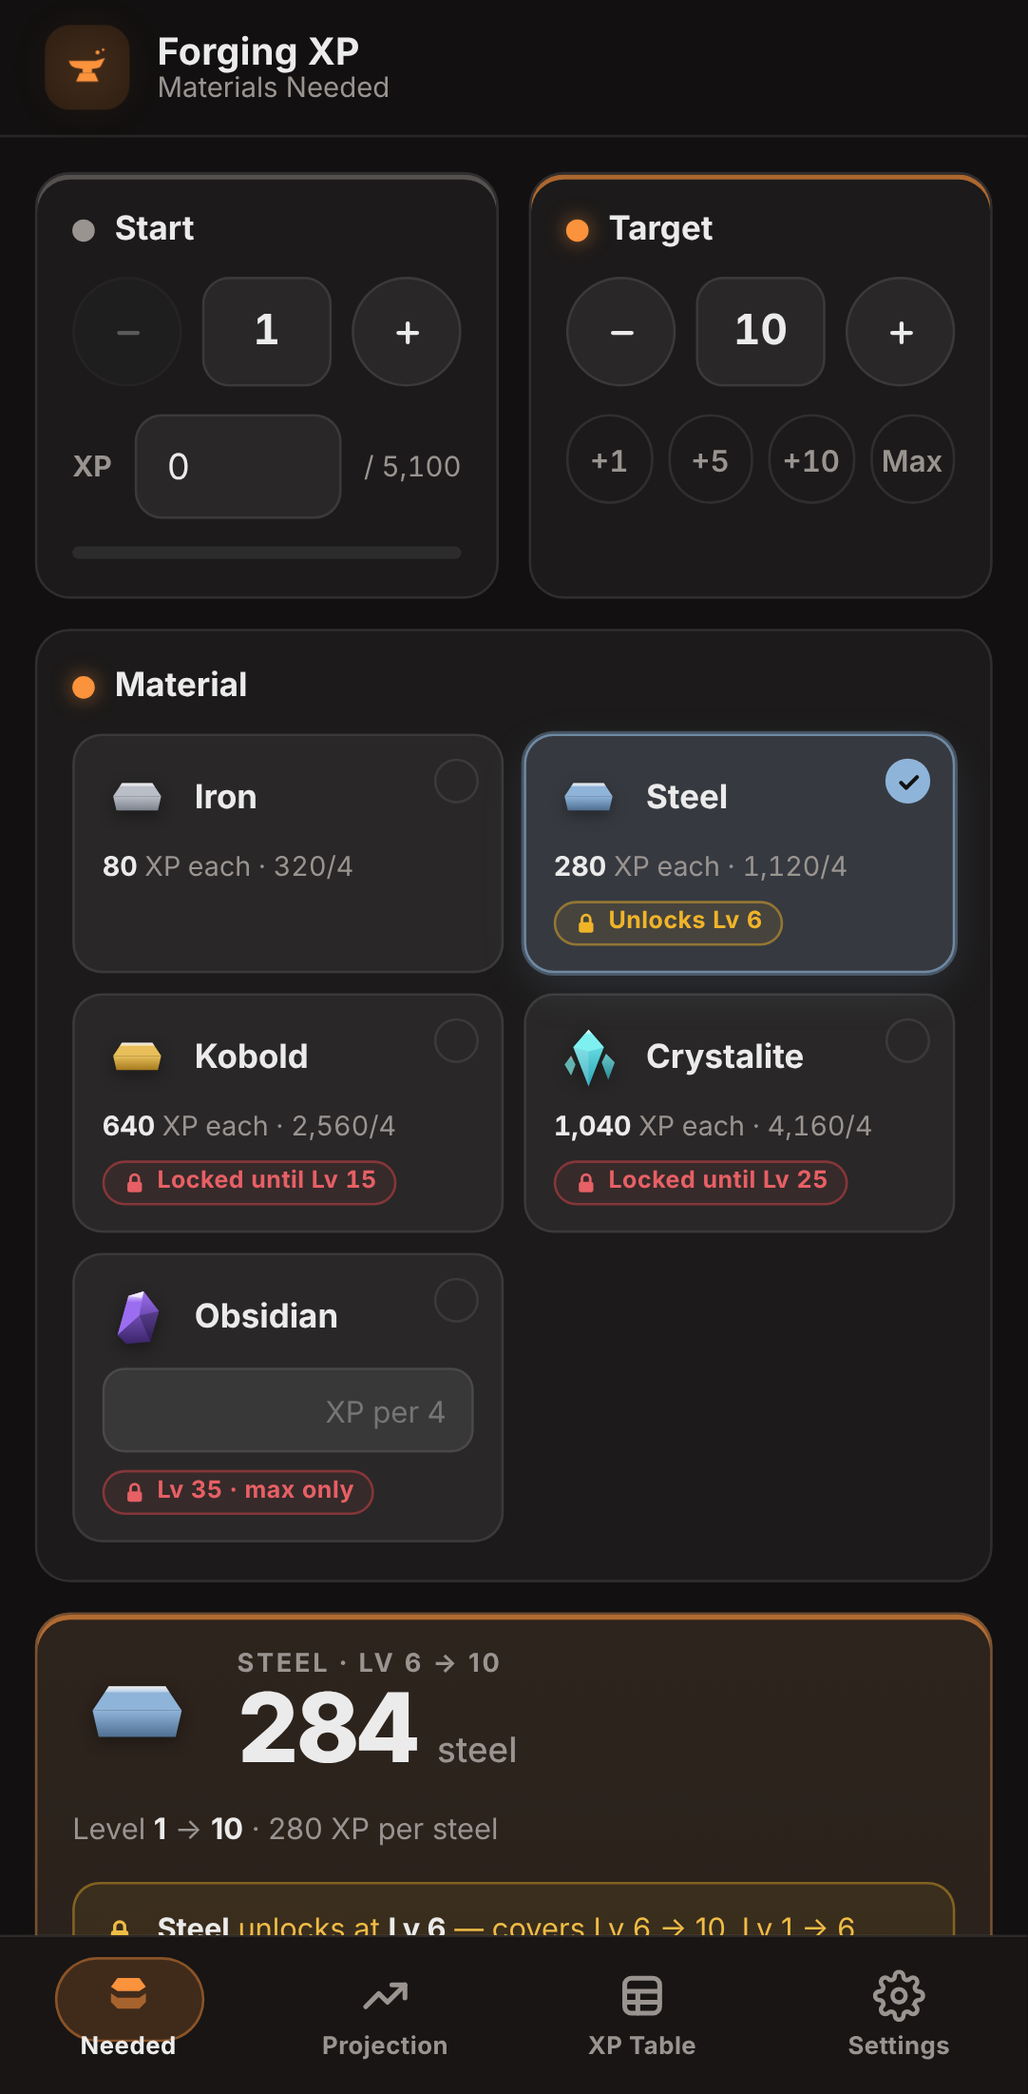
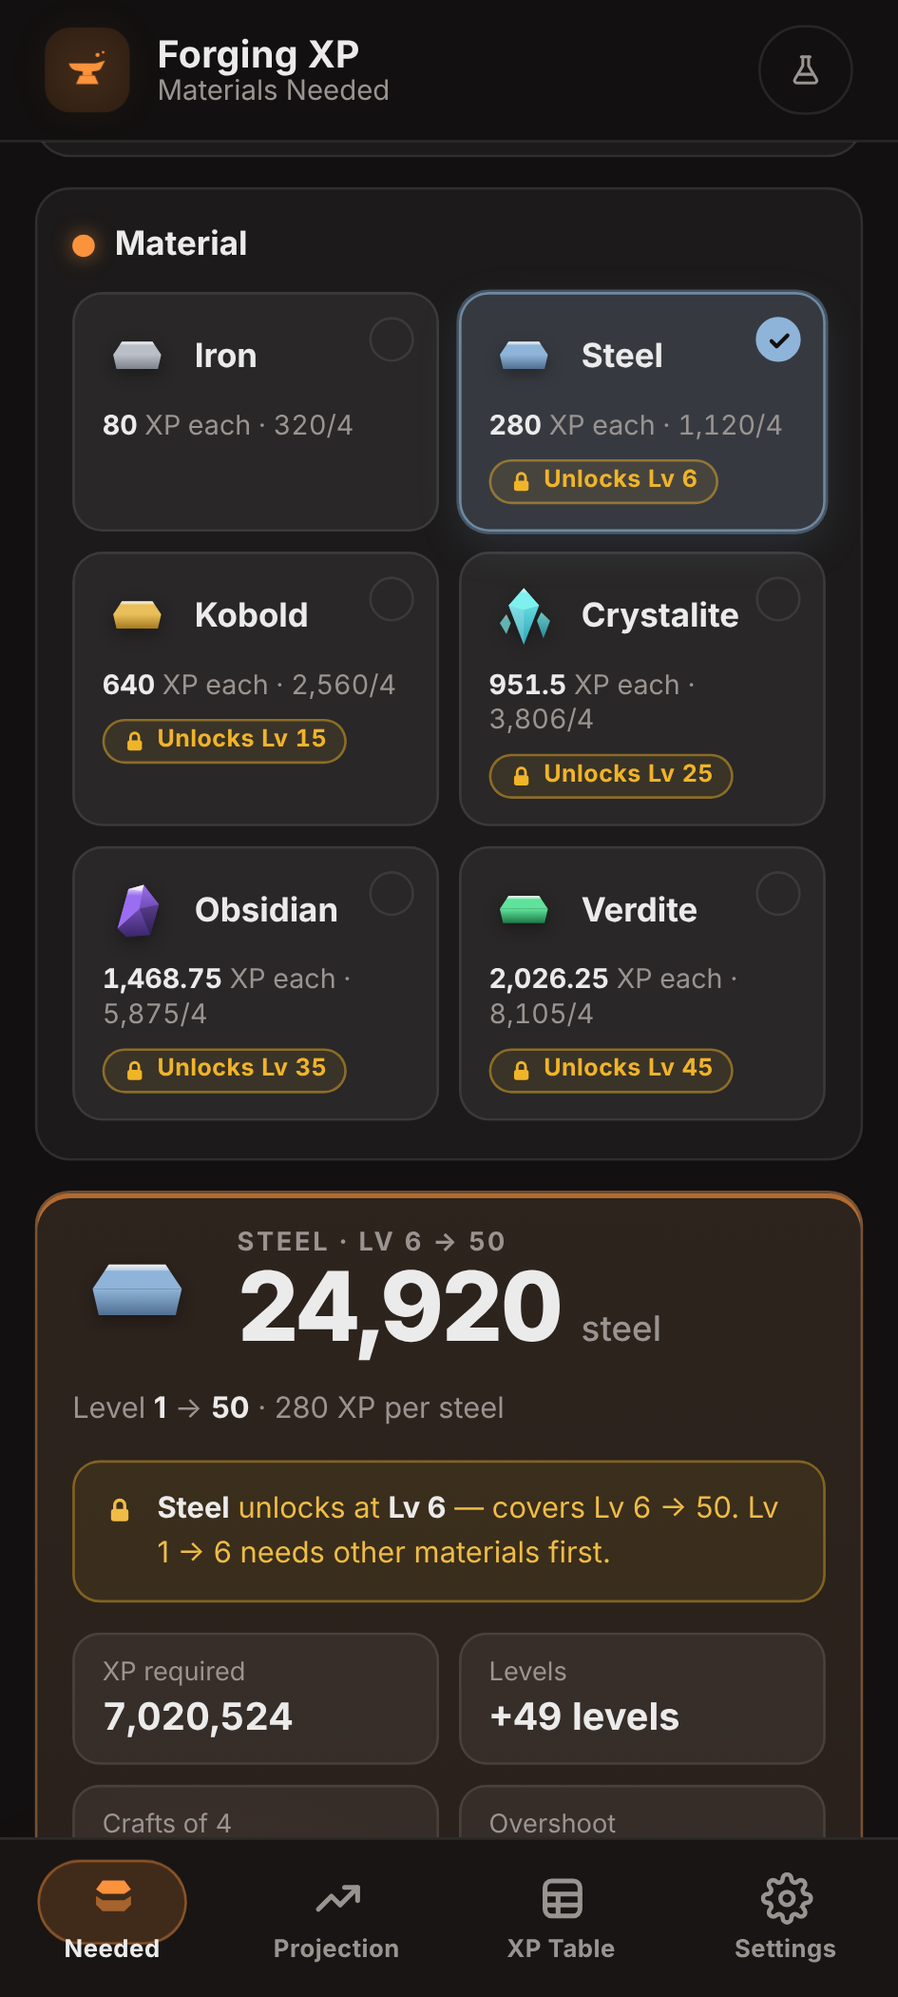
v1.3.0: max level 50, Verdite (Lv 45), Obsidian 5875, Crystalite 3806
Claude-Session: https://claude.ai/code/session_014Nw5Q8vzq2GeLL2u44okpi

diff --git a/desktop/ui/app.js b/desktop/ui/app.js
@@ -9,6 +9,7 @@ const send = (cmd, extra = {}) => { if (HOST) try { window.ipc.postMessage(JSON.
 const $ = s => document.querySelector(s);
 const $$ = s => [...document.querySelectorAll(s)];
 const fmt = n => Math.round(n).toLocaleString("en-US");
+const fmtEach = v => v.toLocaleString("en-US", { maximumFractionDigits: 2 });   // per-item XP (may be fractional)
 
 // ============================================================
 // XP curve: floor((1500 + 400n + 40n²) × 3.4), n = L − 1
@@ -16,8 +17,8 @@ const fmt = n => Math.round(n).toLocaleString("en-US");
 // recorded and this formula was fitted to them (it reproduces every measured value exactly).
 // Levels above 25 — and theoretical mode past 35 — are extrapolated from the same formula.
 // ============================================================
-const GAME_CAP = 35;          // real in-game max level
-const THEO_CAP = 500;         // theoretical mode: formula continues past 35
+const GAME_CAP = 50;          // real in-game max level
+const THEO_CAP = 500;         // theoretical mode: formula continues past the real cap
 let MAX_LEVEL = GAME_CAP;
 let THEO = false;             // never persisted: every launch starts with the real cap
 const rawXp = L => { const n = L - 1; return Math.floor((1500 + 400 * n + 40 * n * n) * 34 / 10); };
@@ -41,8 +42,9 @@ const MATS = [
   { id: "iron",       name: "Iron",       lv: 1,  def: 320,  c: "#b9bec7", c2: "#7d838d", shape: "ingot" },
   { id: "steel",      name: "Steel",      lv: 6,  def: 1120, c: "#8fb4d9", c2: "#4f6f91", shape: "ingot" },
   { id: "kobold",     name: "Kobold",     lv: 15, def: 2560, c: "#e8bf5a", c2: "#a67a1e", shape: "ingot" },
-  { id: "crystalite", name: "Crystalite", lv: 25, def: 4160, c: "#7ff0f0", c2: "#2aa5b8", shape: "crystal" },
-  { id: "obsidian",   name: "Obsidian",   lv: 35, def: 0,    c: "#9b6df0", c2: "#3b2569", shape: "shard" },
+  { id: "crystalite", name: "Crystalite", lv: 25, def: 3806, c: "#7ff0f0", c2: "#2aa5b8", shape: "crystal" },
+  { id: "obsidian",   name: "Obsidian",   lv: 35, def: 5875, c: "#9b6df0", c2: "#3b2569", shape: "shard" },
+  { id: "verdite",    name: "Verdite",    lv: 45, def: 8105, c: "#5fe39a", c2: "#1e7a48", shape: "ingot" },
 ];
 const MAT = Object.fromEntries(MATS.map(m => [m.id, m]));
 const per4 = id => +S.per4[id] || 0;
@@ -153,6 +155,7 @@ function loadState() {
   if (typeof raw === "string") try { raw = JSON.parse(raw); } catch { raw = null; }
   S = deepMerge(structuredClone(DEFAULTS), raw || {});
   // newly-discovered default values fill in for still-unknown materials
+  if (+S.per4.crystalite === 4160) S.per4.crystalite = 3806;   // v1.3: Crystalite rebalanced (old default 4160)
   for (const m of MATS) if (!(+S.per4[m.id] > 0) && m.def > 0) S.per4[m.id] = m.def;
 }
 let saveT = null;
@@ -359,7 +362,7 @@ function renderNeedMats() {
       <div class="m-txt"><span class="m-name">${m.name}</span>
         <span class="m-sub">${known ? `${fmt(p)} XP per 4` : "XP unknown — enter it"}${lockBadge(m.id, S.need.lv, S.need.target)}</span></div>
       <div class="m-right">
-        ${known ? `<span class="m-each"><b>${fmt(p / 4)}</b> each</span><span class="radio"></span>`
+        ${known ? `<span class="m-each"><b>${fmtEach(p / 4)}</b> each</span><span class="radio"></span>`
                 : `<input class="set-inline" data-set="${m.id}" placeholder="XP per 4" inputmode="numeric">`}
       </div>
     </div>`;
@@ -417,7 +420,7 @@ function renderNeed() {
   $("#need-unit").textContent = items === 1 ? m.name.toLowerCase() : m.name.toLowerCase();
   animNum($("#need-count"), items ?? 0);
   const over = Math.max(0, route.cur - endT);
-  $("#need-sub").innerHTML = `Level <b>${N.lv}</b>${N.xp ? ` (+${fmt(N.xp)} XP)` : ""} → <b>${N.target}</b> · ${fmt(per4(N.mat) / 4)} XP per ${m.name.toLowerCase()}`;
+  $("#need-sub").innerHTML = `Level <b>${N.lv}</b>${N.xp ? ` (+${fmt(N.xp)} XP)` : ""} → <b>${N.target}</b> · ${fmtEach(per4(N.mat) / 4)} XP per ${m.name.toLowerCase()}`;
   animNum($("#need-st-xp"), xp);
   $("#need-st-lv").textContent = `+${N.target - N.lv} level${N.target - N.lv === 1 ? "" : "s"}`;
   animNum($("#need-st-crafts"), items / 4);
@@ -487,7 +490,7 @@ function renderProjMats() {
     const p = per4(m.id);
     return `<div class="inv ${p > 0 ? "" : "unknown"}" data-id="${m.id}" style="--mc:${m.c};animation-delay:${i * 30}ms">
       ${matIcon(m.id)}
-      <div class="m-txt"><div class="m-name">${m.name}</div><div class="m-sub">${p > 0 ? `${fmt(p / 4)} XP each` : "XP unknown"}<span class="lb" data-lb="${m.id}"></span></div></div>
+      <div class="m-txt"><div class="m-name">${m.name}</div><div class="m-sub">${p > 0 ? `${fmtEach(p / 4)} XP each` : "XP unknown"}<span class="lb" data-lb="${m.id}"></span></div></div>
       <div class="num" data-bind="proj.counts.${m.id}"></div>
       <div class="q"><button class="qchip" data-q="4">+4</button><button class="qchip" data-q="16">+16</button><button class="qchip" data-q="64">+64</button></div>
       <div class="contrib" data-c="${m.id}"></div>
@@ -683,7 +686,7 @@ function renderSettingsPanel() {
   $("#set-mats").innerHTML = MATS.map(m => `<div class="set-mat">${matIcon(m.id, "sm")}<span class="sm-name">${m.name}</span>
     <label class="sm-lv" title="Level this material unlocks at">Lv<input class="set-inline lvin" data-u="${m.id}" value="${unlockOf(m.id)}" inputmode="numeric"></label>
     <input class="set-inline" data-m="${m.id}" value="${per4(m.id) || ""}" placeholder="unknown" inputmode="numeric">
-    <span class="sm-each">${per4(m.id) ? `${fmt(per4(m.id) / 4)} each` : "—"}</span></div>`).join("");
+    <span class="sm-each">${per4(m.id) ? `${fmtEach(per4(m.id) / 4)} each` : "—"}</span></div>`).join("");
   $$("#set-mats .set-inline").forEach(inp => {
     inp.addEventListener("keydown", e => { if (e.key === "Enter") inp.blur(); });
     inp.addEventListener("change", () => {
@@ -735,7 +738,7 @@ function setTheo(on, quiet) {
   refreshAll();
   if (activeTab === "table") renderTable();
   if (!quiet) {
-    toast(THEO ? `Theoretical mode — level cap lifted (up to Lv ${THEO_CAP})` : "Back to the real Lv 35 cap");
+    toast(THEO ? `Theoretical mode — level cap lifted (up to Lv ${THEO_CAP})` : `Back to the real Lv ${GAME_CAP} cap`);
     THEO ? SFX.select() : SFX.close();
   }
 }

diff --git a/mobile/www/app.js b/mobile/www/app.js
@@ -7,6 +7,7 @@ const NATIVE = typeof window.Android !== "undefined";
 const $ = s => document.querySelector(s);
 const $$ = s => [...document.querySelectorAll(s)];
 const fmt = n => Math.round(n).toLocaleString("en-US");
+const fmtEach = v => v.toLocaleString("en-US", { maximumFractionDigits: 2 });   // per-item XP (may be fractional)
 
 // ============================================================
 // XP curve: floor((1500 + 400n + 40n²) × 3.4), n = L − 1
@@ -14,8 +15,8 @@ const fmt = n => Math.round(n).toLocaleString("en-US");
 // recorded and this formula was fitted to them (it reproduces every measured value exactly).
 // Levels above 25 — and theoretical mode past 35 — are extrapolated from the same formula.
 // ============================================================
-const GAME_CAP = 35;          // real in-game max level
-const THEO_CAP = 500;         // theoretical mode: formula continues past 35
+const GAME_CAP = 50;          // real in-game max level
+const THEO_CAP = 500;         // theoretical mode: formula continues past the real cap
 let MAX_LEVEL = GAME_CAP;
 let THEO = false;             // never persisted: every launch starts with the real cap
 const rawXp = L => { const n = L - 1; return Math.floor((1500 + 400 * n + 40 * n * n) * 34 / 10); };
@@ -39,8 +40,9 @@ const MATS = [
   { id: "iron",       name: "Iron",       lv: 1,  def: 320,  c: "#b9bec7", c2: "#7d838d", shape: "ingot" },
   { id: "steel",      name: "Steel",      lv: 6,  def: 1120, c: "#8fb4d9", c2: "#4f6f91", shape: "ingot" },
   { id: "kobold",     name: "Kobold",     lv: 15, def: 2560, c: "#e8bf5a", c2: "#a67a1e", shape: "ingot" },
-  { id: "crystalite", name: "Crystalite", lv: 25, def: 4160, c: "#7ff0f0", c2: "#2aa5b8", shape: "crystal" },
-  { id: "obsidian",   name: "Obsidian",   lv: 35, def: 0,    c: "#9b6df0", c2: "#3b2569", shape: "shard" },
+  { id: "crystalite", name: "Crystalite", lv: 25, def: 3806, c: "#7ff0f0", c2: "#2aa5b8", shape: "crystal" },
+  { id: "obsidian",   name: "Obsidian",   lv: 35, def: 5875, c: "#9b6df0", c2: "#3b2569", shape: "shard" },
+  { id: "verdite",    name: "Verdite",    lv: 45, def: 8105, c: "#5fe39a", c2: "#1e7a48", shape: "ingot" },
 ];
 const MAT = Object.fromEntries(MATS.map(m => [m.id, m]));
 const per4 = id => +S.per4[id] || 0;
@@ -141,6 +143,7 @@ function loadState() {
   try { raw = NATIVE ? window.Android.load() : localStorage.getItem("fx_settings"); } catch {}
   try { raw = raw ? JSON.parse(raw) : null; } catch { raw = null; }
   S = deepMerge(structuredClone(DEFAULTS), raw || {});
+  if (+S.per4.crystalite === 4160) S.per4.crystalite = 3806;   // v1.3: Crystalite rebalanced (old default 4160)
   for (const m of MATS) if (!(+S.per4[m.id] > 0) && m.def > 0) S.per4[m.id] = m.def;
 }
 let saveT = null;
@@ -428,7 +431,7 @@ function renderNeedMats() {
     return `<div class="mat ${known ? "" : "unknown"} ${S.need.mat === m.id ? "selected" : ""}" data-id="${m.id}" style="--mc:${m.c}">
       <div class="m-top">${matIcon(m.id)}<span class="m-name">${m.name}</span></div>
       <span class="check">${ICON.check}</span>
-      ${known ? `<span class="m-each"><b>${fmt(p / 4)}</b> XP each · ${fmt(p)}/4</span>`
+      ${known ? `<span class="m-each"><b>${fmtEach(p / 4)}</b> XP each · ${fmt(p)}/4</span>`
               : `<input class="set-inline" data-set="${m.id}" placeholder="XP per 4" inputmode="numeric" enterkeyhint="done">`}
       <div class="m-foot">${lockBadge(m.id, S.need.lv, S.need.target)}</div>
     </div>`;
@@ -482,7 +485,7 @@ function renderNeed() {
   $("#need-res-label").textContent = partial && u < N.target ? `${m.name} · Lv ${u} → ${N.target}` : `${m.name} needed`;
   $("#need-unit").textContent = m.name.toLowerCase();
   animNum($("#need-count"), items);
-  $("#need-sub").innerHTML = `Level <b>${N.lv}</b>${N.xp ? ` (+${fmt(N.xp)} XP)` : ""} → <b>${N.target}</b> · ${fmt(per4(N.mat) / 4)} XP per ${m.name.toLowerCase()}`;
+  $("#need-sub").innerHTML = `Level <b>${N.lv}</b>${N.xp ? ` (+${fmt(N.xp)} XP)` : ""} → <b>${N.target}</b> · ${fmtEach(per4(N.mat) / 4)} XP per ${m.name.toLowerCase()}`;
   animNum($("#need-st-xp"), xp);
   $("#need-st-lv").textContent = `+${N.target - N.lv} level${N.target - N.lv === 1 ? "" : "s"}`;
   animNum($("#need-st-crafts"), items / 4);
@@ -548,7 +551,7 @@ function renderProjMats() {
     const p = per4(m.id);
     return `<div class="inv ${p > 0 ? "" : "unknown"}" data-id="${m.id}" style="--mc:${m.c}">
       <div class="i-top">${matIcon(m.id)}
-        <div class="m-txt"><div class="m-name">${m.name}<span class="lb" data-lb="${m.id}"></span></div><div class="m-sub">${p > 0 ? `${fmt(p / 4)} XP each` : "XP unknown — set in Settings"}</div></div>
+        <div class="m-txt"><div class="m-name">${m.name}<span class="lb" data-lb="${m.id}"></span></div><div class="m-sub">${p > 0 ? `${fmtEach(p / 4)} XP each` : "XP unknown — set in Settings"}</div></div>
         <div class="contrib" data-c="${m.id}"></div>
       </div>
       <div class="i-ctl">
@@ -859,7 +862,7 @@ function setTheo(on, quiet) {
   refreshAll();
   if (activeTab === "table") renderTable();
   if (!quiet) {
-    toast(THEO ? `Theoretical mode — level cap lifted (up to Lv ${THEO_CAP})` : "Back to the real Lv 35 cap");
+    toast(THEO ? `Theoretical mode — level cap lifted (up to Lv ${THEO_CAP})` : `Back to the real Lv ${GAME_CAP} cap`);
     THEO ? SFX.select() : SFX.close();
     buzz(14);
   }

diff --git a/desktop/ui/index.html b/desktop/ui/index.html
@@ -34,7 +34,7 @@
       </button>
     </nav>
     <div class="tb-right">
-      <button id="btn-theo" class="theo-toggle" aria-pressed="false" title="Theoretical mode: lift the Lv 35 cap so the XP formula keeps going. Resets every launch."><svg viewBox="0 0 24 24" width="14" height="14" fill="none" stroke="currentColor" stroke-width="2" stroke-linecap="round" stroke-linejoin="round"><path d="M9 3h6"/><path d="M10 3v6.2L4.6 18.4A1.7 1.7 0 0 0 6.1 21h11.8a1.7 1.7 0 0 0 1.5-2.6L14 9.2V3"/><path d="M7.5 15h9"/></svg><span class="tt-label">Theoretical</span></button>
+      <button id="btn-theo" class="theo-toggle" aria-pressed="false" title="Theoretical mode: lift the Lv 50 cap so the XP formula keeps going. Resets every launch."><svg viewBox="0 0 24 24" width="14" height="14" fill="none" stroke="currentColor" stroke-width="2" stroke-linecap="round" stroke-linejoin="round"><path d="M9 3h6"/><path d="M10 3v6.2L4.6 18.4A1.7 1.7 0 0 0 6.1 21h11.8a1.7 1.7 0 0 0 1.5-2.6L14 9.2V3"/><path d="M7.5 15h9"/></svg><span class="tt-label">Theoretical</span></button>
       <button id="btn-settings" class="tb-btn" title="Settings (Ctrl+,)">
         <svg viewBox="0 0 24 24" width="14" height="14" fill="none" stroke="currentColor" stroke-width="2"><circle cx="12" cy="12" r="3"/><path d="M19.4 15a1.7 1.7 0 0 0 .34 1.87l.06.06a2 2 0 1 1-2.83 2.83l-.06-.06a1.7 1.7 0 0 0-1.87-.34 1.7 1.7 0 0 0-1 1.55V21a2 2 0 1 1-4 0v-.09a1.7 1.7 0 0 0-1-1.55 1.7 1.7 0 0 0-1.87.34l-.06.06a2 2 0 1 1-2.83-2.83l.06-.06a1.7 1.7 0 0 0 .34-1.87 1.7 1.7 0 0 0-1.55-1H3a2 2 0 1 1 0-4h.09a1.7 1.7 0 0 0 1.55-1 1.7 1.7 0 0 0-.34-1.87l-.06-.06a2 2 0 1 1 2.83-2.83l.06.06a1.7 1.7 0 0 0 1.87.34h.01a1.7 1.7 0 0 0 1-1.55V3a2 2 0 1 1 4 0v.09a1.7 1.7 0 0 0 1 1.55 1.7 1.7 0 0 0 1.87-.34l.06-.06a2 2 0 1 1 2.83 2.83l-.06.06a1.7 1.7 0 0 0-.34 1.87v.01a1.7 1.7 0 0 0 1.55 1H21a2 2 0 1 1 0 4h-.09a1.7 1.7 0 0 0-1.55 1z"/></svg>
       </button>
@@ -95,7 +95,7 @@
               <div class="stat"><span>Crafts of 4</span><b id="need-st-crafts">0</b></div>
               <div class="stat"><span>Overshoot</span><b id="need-st-over">0</b></div>
             </div>
-            <div class="journey" id="need-journey"><div class="j-track"><i class="j-done"></i><i class="j-go"></i></div><div class="j-labels"><span>1</span><span>35</span></div></div>
+            <div class="journey" id="need-journey"><div class="j-track"><i class="j-done"></i><i class="j-go"></i></div><div class="j-labels"><span>1</span><span>50</span></div></div>
             <div class="route hidden" id="need-route">
               <h4 class="sub-h">Fastest route</h4>
               <div class="alt-list route-list"></div>
@@ -243,7 +243,7 @@
       </section>
 
       <section class="about">
-        <p>XP formula: floor((1500 + 400n + 40n²) × 3.4), n = level − 1. It was derived by measuring the max XP of every blacksmithing level from 1 to 25 in-game and fitting a formula to those values; it matches all of them exactly. Levels above 25 (and theoretical mode) are extrapolated. Max level 35 (2,640,304 total XP).</p>
+        <p>XP formula: floor((1500 + 400n + 40n²) × 3.4), n = level − 1. It was derived by measuring the max XP of every blacksmithing level from 1 to 25 in-game and fitting a formula to those values; it matches all of them exactly. Levels above 25 (and theoretical mode) are extrapolated. Max level 50 (7,020,524 total XP).</p>
         <p>Shortcuts: Ctrl+1/2/3 tabs · Ctrl+, settings · Enter strike · scroll over a level to change it.</p>
       </section>
     </div>

diff --git a/mobile/www/index.html b/mobile/www/index.html
@@ -19,7 +19,7 @@
       <span class="tb-title">Forging XP</span>
       <span class="tb-sub" id="tb-sub">Materials Needed</span>
     </div>
-    <button id="btn-theo" class="theo-toggle" aria-pressed="false" title="Theoretical mode: lift the Lv 35 cap so the XP formula keeps going. Resets every launch."><svg viewBox="0 0 24 24" width="14" height="14" fill="none" stroke="currentColor" stroke-width="2" stroke-linecap="round" stroke-linejoin="round"><path d="M9 3h6"/><path d="M10 3v6.2L4.6 18.4A1.7 1.7 0 0 0 6.1 21h11.8a1.7 1.7 0 0 0 1.5-2.6L14 9.2V3"/><path d="M7.5 15h9"/></svg><span class="tt-label">Theoretical</span></button>
+    <button id="btn-theo" class="theo-toggle" aria-pressed="false" title="Theoretical mode: lift the Lv 50 cap so the XP formula keeps going. Resets every launch."><svg viewBox="0 0 24 24" width="14" height="14" fill="none" stroke="currentColor" stroke-width="2" stroke-linecap="round" stroke-linejoin="round"><path d="M9 3h6"/><path d="M10 3v6.2L4.6 18.4A1.7 1.7 0 0 0 6.1 21h11.8a1.7 1.7 0 0 0 1.5-2.6L14 9.2V3"/><path d="M7.5 15h9"/></svg><span class="tt-label">Theoretical</span></button>
   </header>
 
   <!-- ======= Pager ======= -->
@@ -200,7 +200,7 @@
           <div class="card">
             <button id="btn-reset-all" class="btn">Reset all settings</button>
             <div class="about">
-              <p>XP formula: floor((1500 + 400n + 40n²) × 3.4), n = level − 1. It was derived by measuring the max XP of every blacksmithing level from 1 to 25 in-game and fitting a formula to those values; it matches all of them exactly. Levels above 25 (and theoretical mode) are extrapolated. Max level 35 (2,640,304 total XP). Crafts use 4 items at a time.</p>
+              <p>XP formula: floor((1500 + 400n + 40n²) × 3.4), n = level − 1. It was derived by measuring the max XP of every blacksmithing level from 1 to 25 in-game and fitting a formula to those values; it matches all of them exactly. Levels above 25 (and theoretical mode) are extrapolated. Max level 50 (7,020,524 total XP). Crafts use 4 items at a time.</p>
               <p>Swipe left/right to switch tabs. Sliders only move when you drag them sideways, so scrolling never changes a value. Hold − / + to repeat.</p>
             </div>
           </div>

diff --git a/README.md b/README.md
@@ -44,15 +44,16 @@ Without them the release APK is signed with a temporary key.
 ## Features
 
 - **Materials Needed**: pick a start level (plus current XP) and a target level and see exactly how
-  many items and crafts you need, with overshoot, progress across levels 1–35, and the same goal in
+  many items and crafts you need, with overshoot, progress across levels 1–50, and the same goal in
   every other material.
 - **Fastest route**: automatically uses the best material unlocked at each stage
-  (Iron → Steel → Kobold → Crystalite).
+  (Iron → Steel → Kobold → Crystalite → Obsidian → Verdite).
 - **Level Projection**: enter what you have (one material or several) and see the level you'll
   reach, progress into it, each material's share of the XP, and what you need for the next level.
   Materials that aren't unlocked yet are only used once you reach their level.
 - **XP Table**: the full curve. Click or tap a row to set your target, Shift-click or hold to set
   your start.
+- **Theoretical mode**: a toggle in the top bar that lifts the Lv 50 cap so the formula keeps going (up to Lv 500). It's off every time the app starts.
 - **Crafting-accurate rounding**: crafts consume 4 items at a time, so every count is a whole
   number of crafts (a multiple of 4), and leftover items are flagged as spare.
 - Synthesized sound effects, animations, dark/light themes, accent colours, brightness, and
@@ -66,12 +67,12 @@ Without them the release APK is signed with a temporary key.
 
 ```
 XP to go from level L to L+1  =  floor( (1500 + 400·n + 40·n²) × 3.4 ),   n = L − 1
-Max level 35  ·  2,640,304 total XP from level 1
+Max level 50  ·  7,020,524 total XP from level 1
 ```
 
 **Where the formula comes from:** it was derived from in-game measurements. The max XP of every
 blacksmithing level from 1 to 25 was recorded, and this formula was fitted to those values. It
-reproduces every measured value exactly. Levels 26–35, and Theoretical mode beyond 35, are
+reproduces every measured value exactly. Levels 26–50, and Theoretical mode beyond 50, are
 extrapolated from the same formula. If the game ever disagrees, the in-game value is right.
 
 | Level | XP to next | Total XP from Lv 1 |
@@ -83,6 +84,9 @@ extrapolated from the same formula. If the game ever disagrees, the in-game valu
 | 20 → 21 | 80,036 | 696,320 |
 | 25 → 26 | 116,076 | 1,201,900 |
 | 34 → 35 | 198,084 | 2,640,304 |
+| 40 → 41 | 264,996 | 4,058,240 |
+| 45 → 46 | 328,236 | 5,570,220 |
+| 49 → 50 | 383,724 | 7,020,524 |
 
 The full table is in the app's **XP Table** tab.
 
@@ -91,8 +95,9 @@ The full table is in the app's **XP Table** tab.
 | Iron | 320 | 80 | Lv 1 |
 | Steel | 1,120 | 280 | Lv 6 |
 | Kobold | 2,560 | 640 | Lv 15 |
-| Crystalite | 4,160 | 1,040 | Lv 25 |
-| Obsidian | unknown | — | Lv 35 (max) |
+| Crystalite | 3,806 | 951.5 | Lv 25 |
+| Obsidian | 5,875 | 1,468.75 | Lv 35 |
+| Verdite | 8,105 | 2,026.25 | Lv 45 |
 
 All values (XP and unlock levels) can be edited in **Settings** if the game changes them.
 

diff --git a/CHANGELOG.md b/CHANGELOG.md
@@ -4,6 +4,16 @@ All notable changes to the Forging XP Calculator, split by platform.
 Adding a new version section at the top and pushing it publishes that release automatically.
 Downloads for every version are on the [Releases](../../releases) page.
 
+## [1.3.0] — 2026-11-01
+
+### 🖥 Desktop (Windows) and 📱 Mobile (Android)
+- **Max level raised to 50** (was 35). Level 1 → 50 is 7,020,524 XP in total. The level boxes, XP Table, progress bar and Max shortcut all follow the new cap. Theoretical mode now lifts the Lv 50 cap.
+- **New material: Verdite.** Unlocks at Lv 45, 8,105 XP per craft of 4 (2,026.25 each).
+- **Obsidian has a value now:** 5,875 XP per craft of 4 (1,468.75 each). Unlocks at Lv 35 and is now a normal levelling material (it used to be max-level only).
+- **Crystalite rebalanced:** 4,160 → 3,806 XP per craft of 4 (951.5 each). If you still had the old 4,160 saved, it updates automatically. Values you entered yourself are kept.
+- The fastest route now continues Crystalite → **Obsidian (Lv 35)** → **Verdite (Lv 45)**.
+- Per-item XP shows decimals where needed (e.g. 951.5 each). Counts still round up to whole crafts of 4.
+
 ## [1.2.2] — 2026-10-29
 
 ### 🖥 Desktop (Windows)
